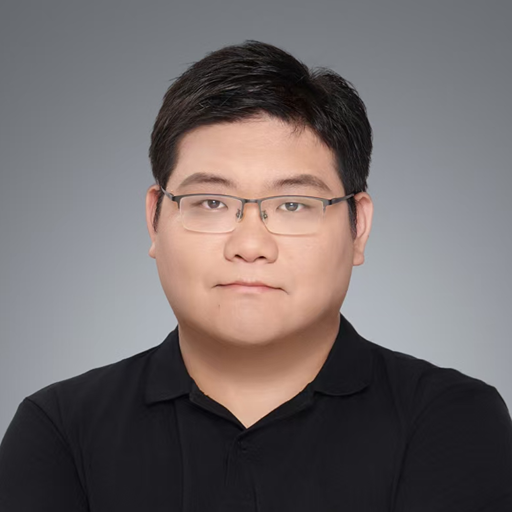
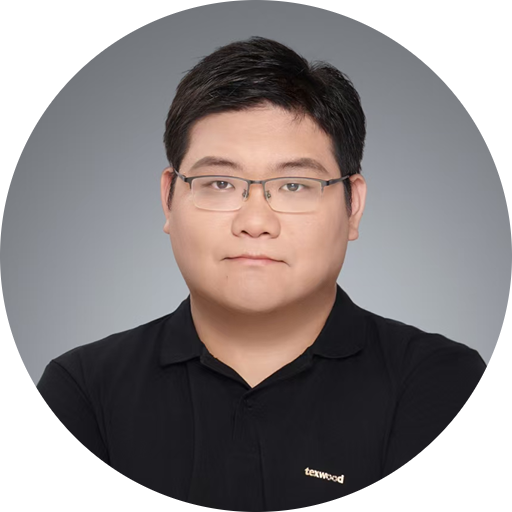
Minor Update

diff --git a/index.html b/index.html
@@ -4,7 +4,9 @@
 <meta charset="utf-8">
 <meta name="viewport" content="width=device-width, initial-scale=1">
 
-<title>Tianming Liu</title>
+<!-- 574px wide in Google's desktop SERP font (Arial 20px), inside the ~600px
+     cutoff. Adding "(HUST)" pushes it to 647px and gets the tail truncated. -->
+<title>Tianming Liu — Huazhong University of Science and Technology</title>
 <meta name="description" content="Tianming Liu — postdoctoral researcher at Huazhong University of Science and Technology, working on mobile security, software security, and software engineering.">
 <meta name="author" content="Tianming Liu">
 
@@ -34,6 +36,61 @@
 <meta name="theme-color" content="#ffffff">
 
 <link rel="stylesheet" href="assets/site.css">
+
+<!-- Structured data. Its job is disambiguation: "Tianming Liu" is not a unique
+     name in CS, so sameAs ties this page to the ORCID / Scholar / DBLP records
+     that identify one specific person. Keep it in sync with the sidebar links.
+     Email is deliberately left out — it adds nothing here and would be one more
+     machine-readable copy of the address. -->
+<script type="application/ld+json">
+{
+  "@context": "https://schema.org",
+  "@type": "Person",
+  "@id": "https://tmliu06.github.io/#person",
+  "name": "Tianming Liu",
+  "url": "https://tmliu06.github.io/",
+  "image": "https://tmliu06.github.io/images/android-chrome-512x512.png",
+  "jobTitle": "Postdoctoral Researcher",
+  "identifier": "https://orcid.org/0000-0002-5216-933X",
+  "worksFor": {
+    "@type": "CollegeOrUniversity",
+    "name": "Huazhong University of Science and Technology",
+    "alternateName": "HUST",
+    "url": "https://www.hust.edu.cn/",
+    "department": {
+      "@type": "Organization",
+      "name": "School of Cyber Science and Engineering",
+      "url": "https://cse.hust.edu.cn/"
+    }
+  },
+  "alumniOf": [
+    {
+      "@type": "CollegeOrUniversity",
+      "name": "Monash University",
+      "url": "https://www.monash.edu/"
+    },
+    {
+      "@type": "CollegeOrUniversity",
+      "name": "Beijing University of Posts and Telecommunications",
+      "alternateName": "BUPT",
+      "url": "https://www.bupt.edu.cn/"
+    }
+  ],
+  "knowsAbout": [
+    "Mobile Security",
+    "Software Security",
+    "Software Engineering",
+    "Android App Analysis",
+    "Mobile Agent Security"
+  ],
+  "sameAs": [
+    "https://scholar.google.com.hk/citations?user=nT5DxnMAAAAJ",
+    "https://dblp.org/pid/96/5013-2.html",
+    "https://orcid.org/0000-0002-5216-933X",
+    "https://www.researchgate.net/profile/Tianming-Liu-2"
+  ]
+}
+</script>
 </head>
 <body>
 
